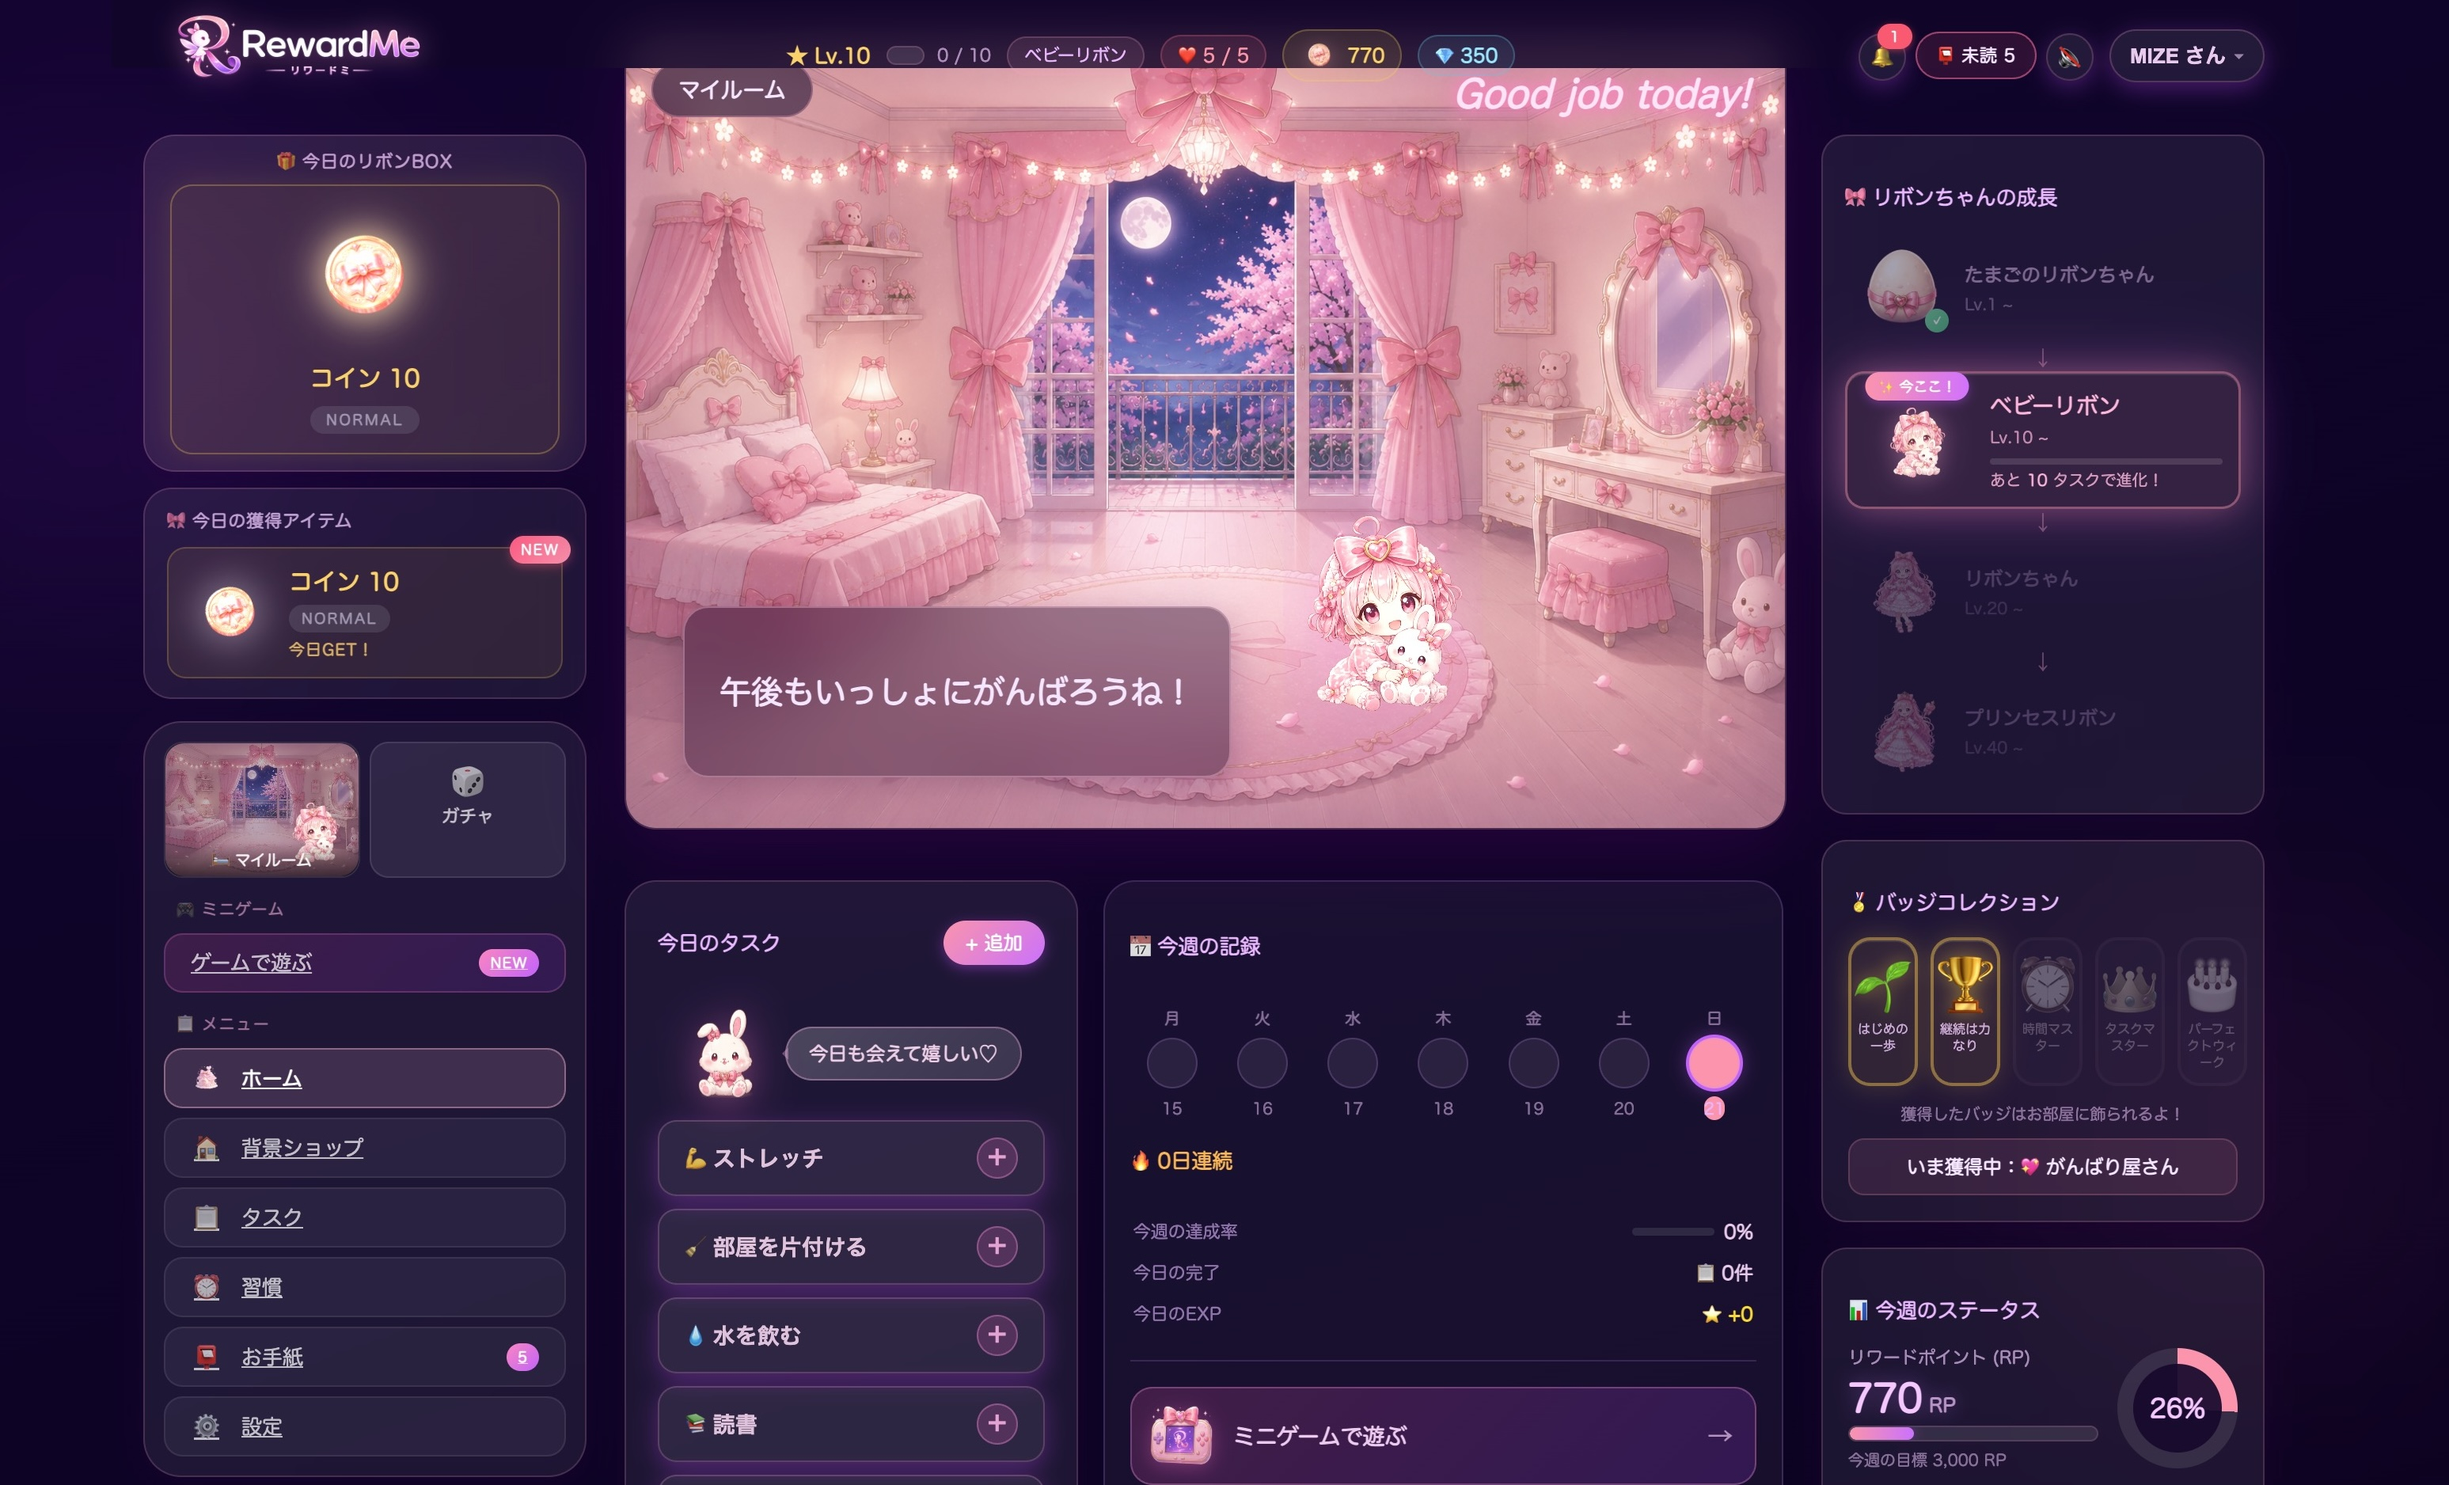
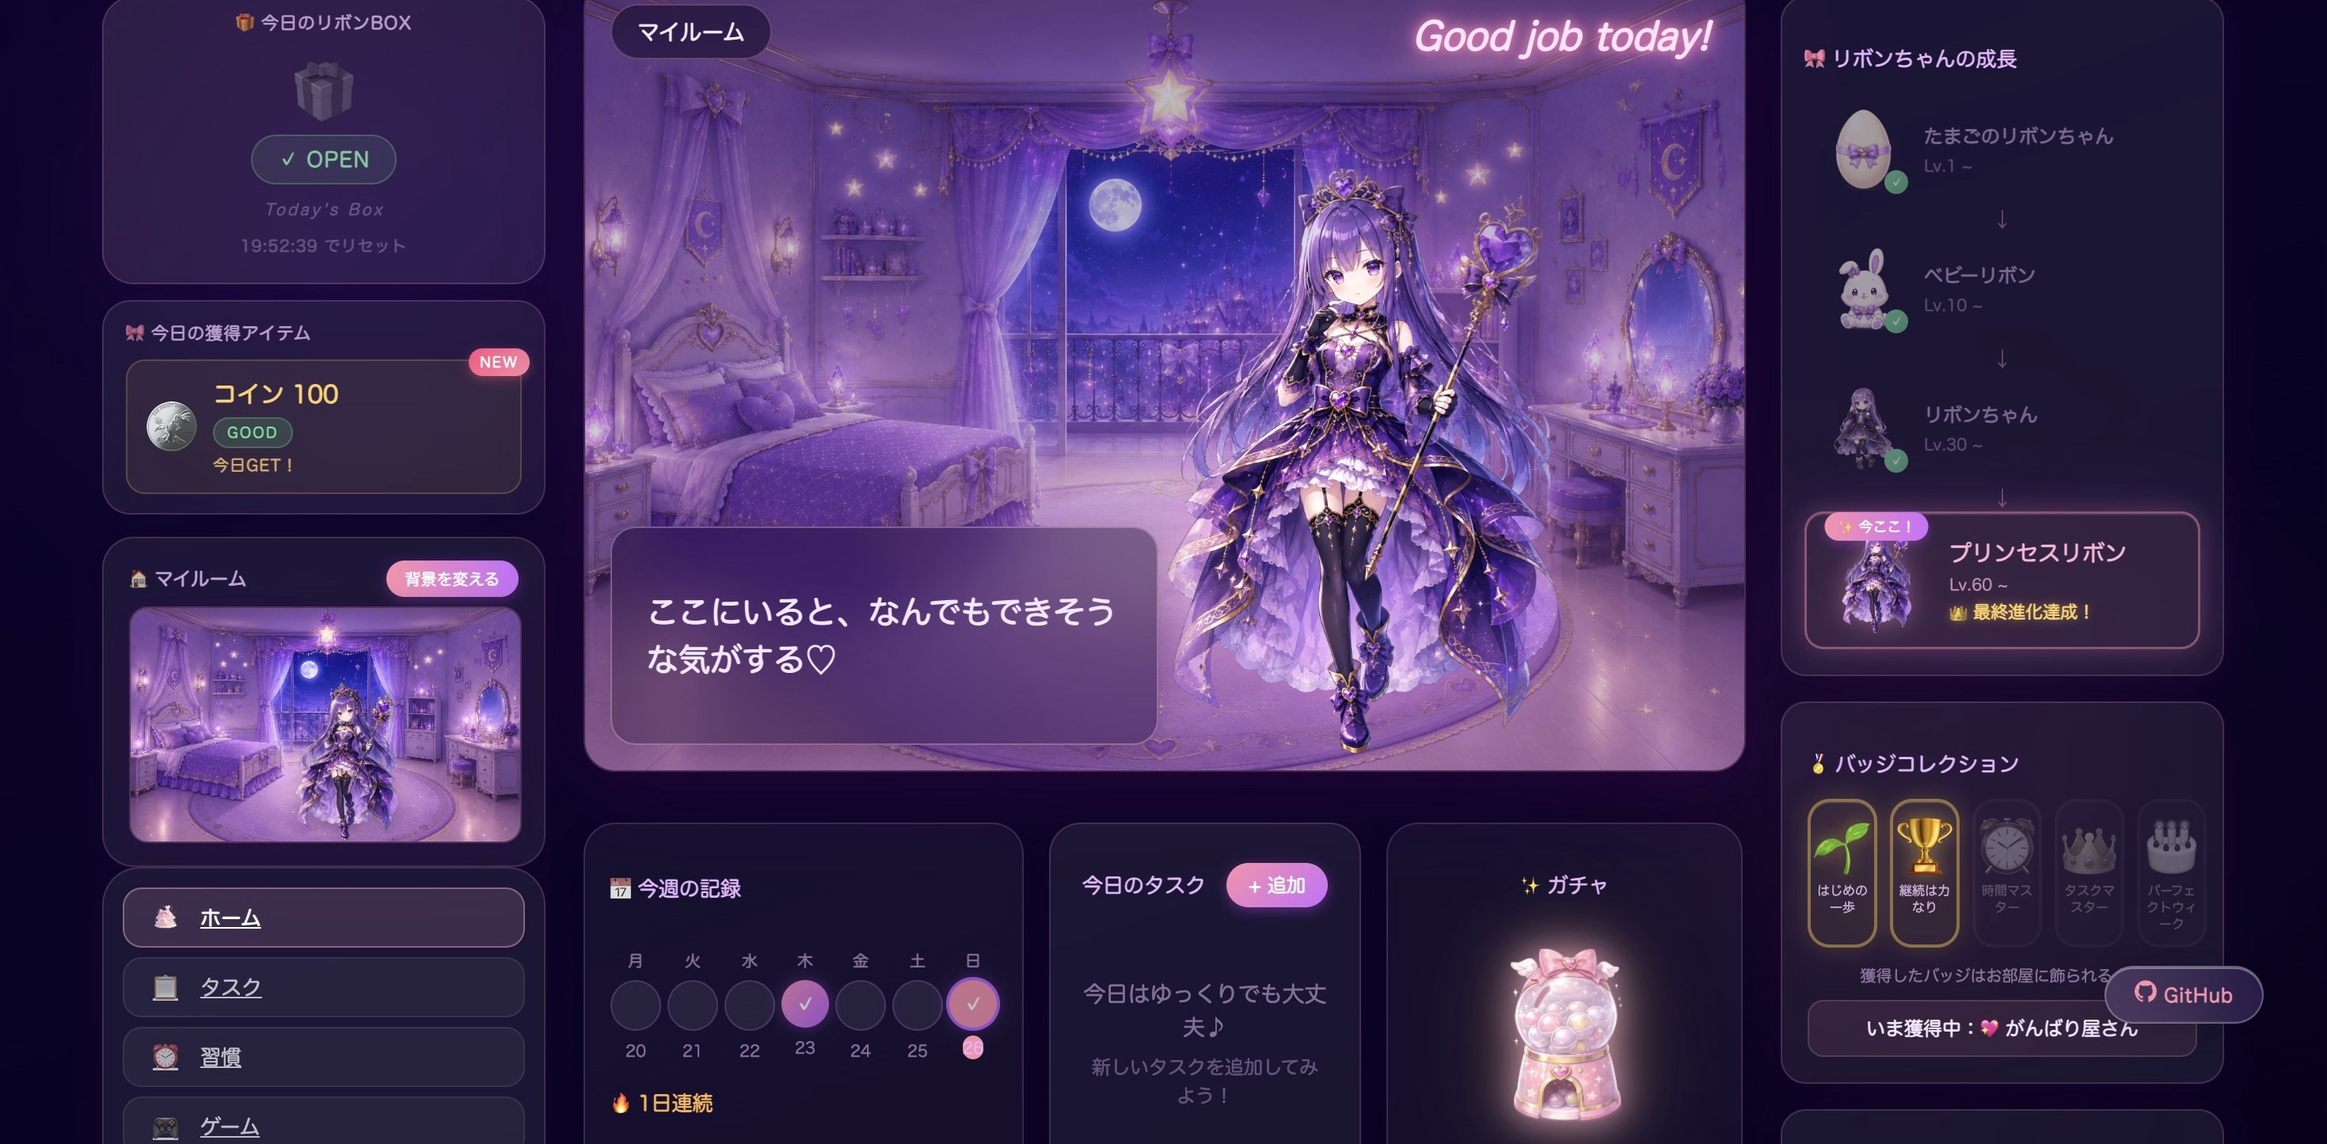
docs: refresh RewardMe overview and characters

diff --git a/app/assets/stylesheets/reward_landing.css b/app/assets/stylesheets/reward_landing.css
@@ -146,10 +146,7 @@
 :where(.reward-landing) .rm-start-art{position:relative;height:280px;display:flex;justify-content:center;align-items:center}
 :where(.reward-landing) .rm-start-art:before{content:'';position:absolute;width:290px;height:290px;border:1px solid #f4b6cf2b;border-radius:50%}
 .reward-landing .rm-start-trio{position:relative;width:450px;height:270px;display:flex;align-items:flex-end;justify-content:center}
-.reward-landing .rm-start-princess{position:relative;width:auto;max-width:none;object-fit:contain;object-position:bottom;filter:drop-shadow(0 14px 16px #09030c66);flex:0 0 auto}
-.reward-landing .rm-start-princess-purple{z-index:3;height:250px}
-.reward-landing .rm-start-princess-pink{z-index:2;height:185px;margin-right:-52px;transform:rotate(-7deg)}
-.reward-landing .rm-start-princess-blue{z-index:1;height:185px;margin-left:-52px;transform:rotate(7deg)}
+.reward-landing .rm-start-trio-image{position:relative;z-index:2;width:100%;height:100%;object-fit:contain;object-position:center bottom;filter:drop-shadow(0 14px 16px #09030c66)}
 :where(.reward-landing) .rm-start-art>span{position:absolute;bottom:0;right:0;font:italic 22px Georgia,serif;color:#d6b0c5;transform:rotate(-8deg)}
 :where(.reward-landing) .rm-footer{padding-block:38px}
 :where(.reward-landing) .rm-footer-inner{display:flex;align-items:center;justify-content:space-between;gap:30px}
@@ -254,10 +251,6 @@ html.rm-no-scroll:has(> body.reward-landing){overflow:hidden}
 :where(.reward-landing) .rm-start-inner{grid-template-columns:1fr;gap:32px;padding-block:45px}
 :where(.reward-landing) .rm-start-art{grid-row:2;height:250px}
 .reward-landing .rm-start-trio{width:330px;height:242px}
-.reward-landing .rm-start-princess-purple{height:205px}
-.reward-landing .rm-start-princess-pink,.reward-landing .rm-start-princess-blue{height:145px}
-.reward-landing .rm-start-princess-pink{margin-right:-38px}
-.reward-landing .rm-start-princess-blue{margin-left:-38px}
 :where(.reward-landing) .rm-start-art:before{width:230px;height:230px}
 :where(.reward-landing) .rm-start-art>span{right:5%;font-size:20px}
 :where(.reward-landing) .rm-start .rm-actions{gap:15px}
